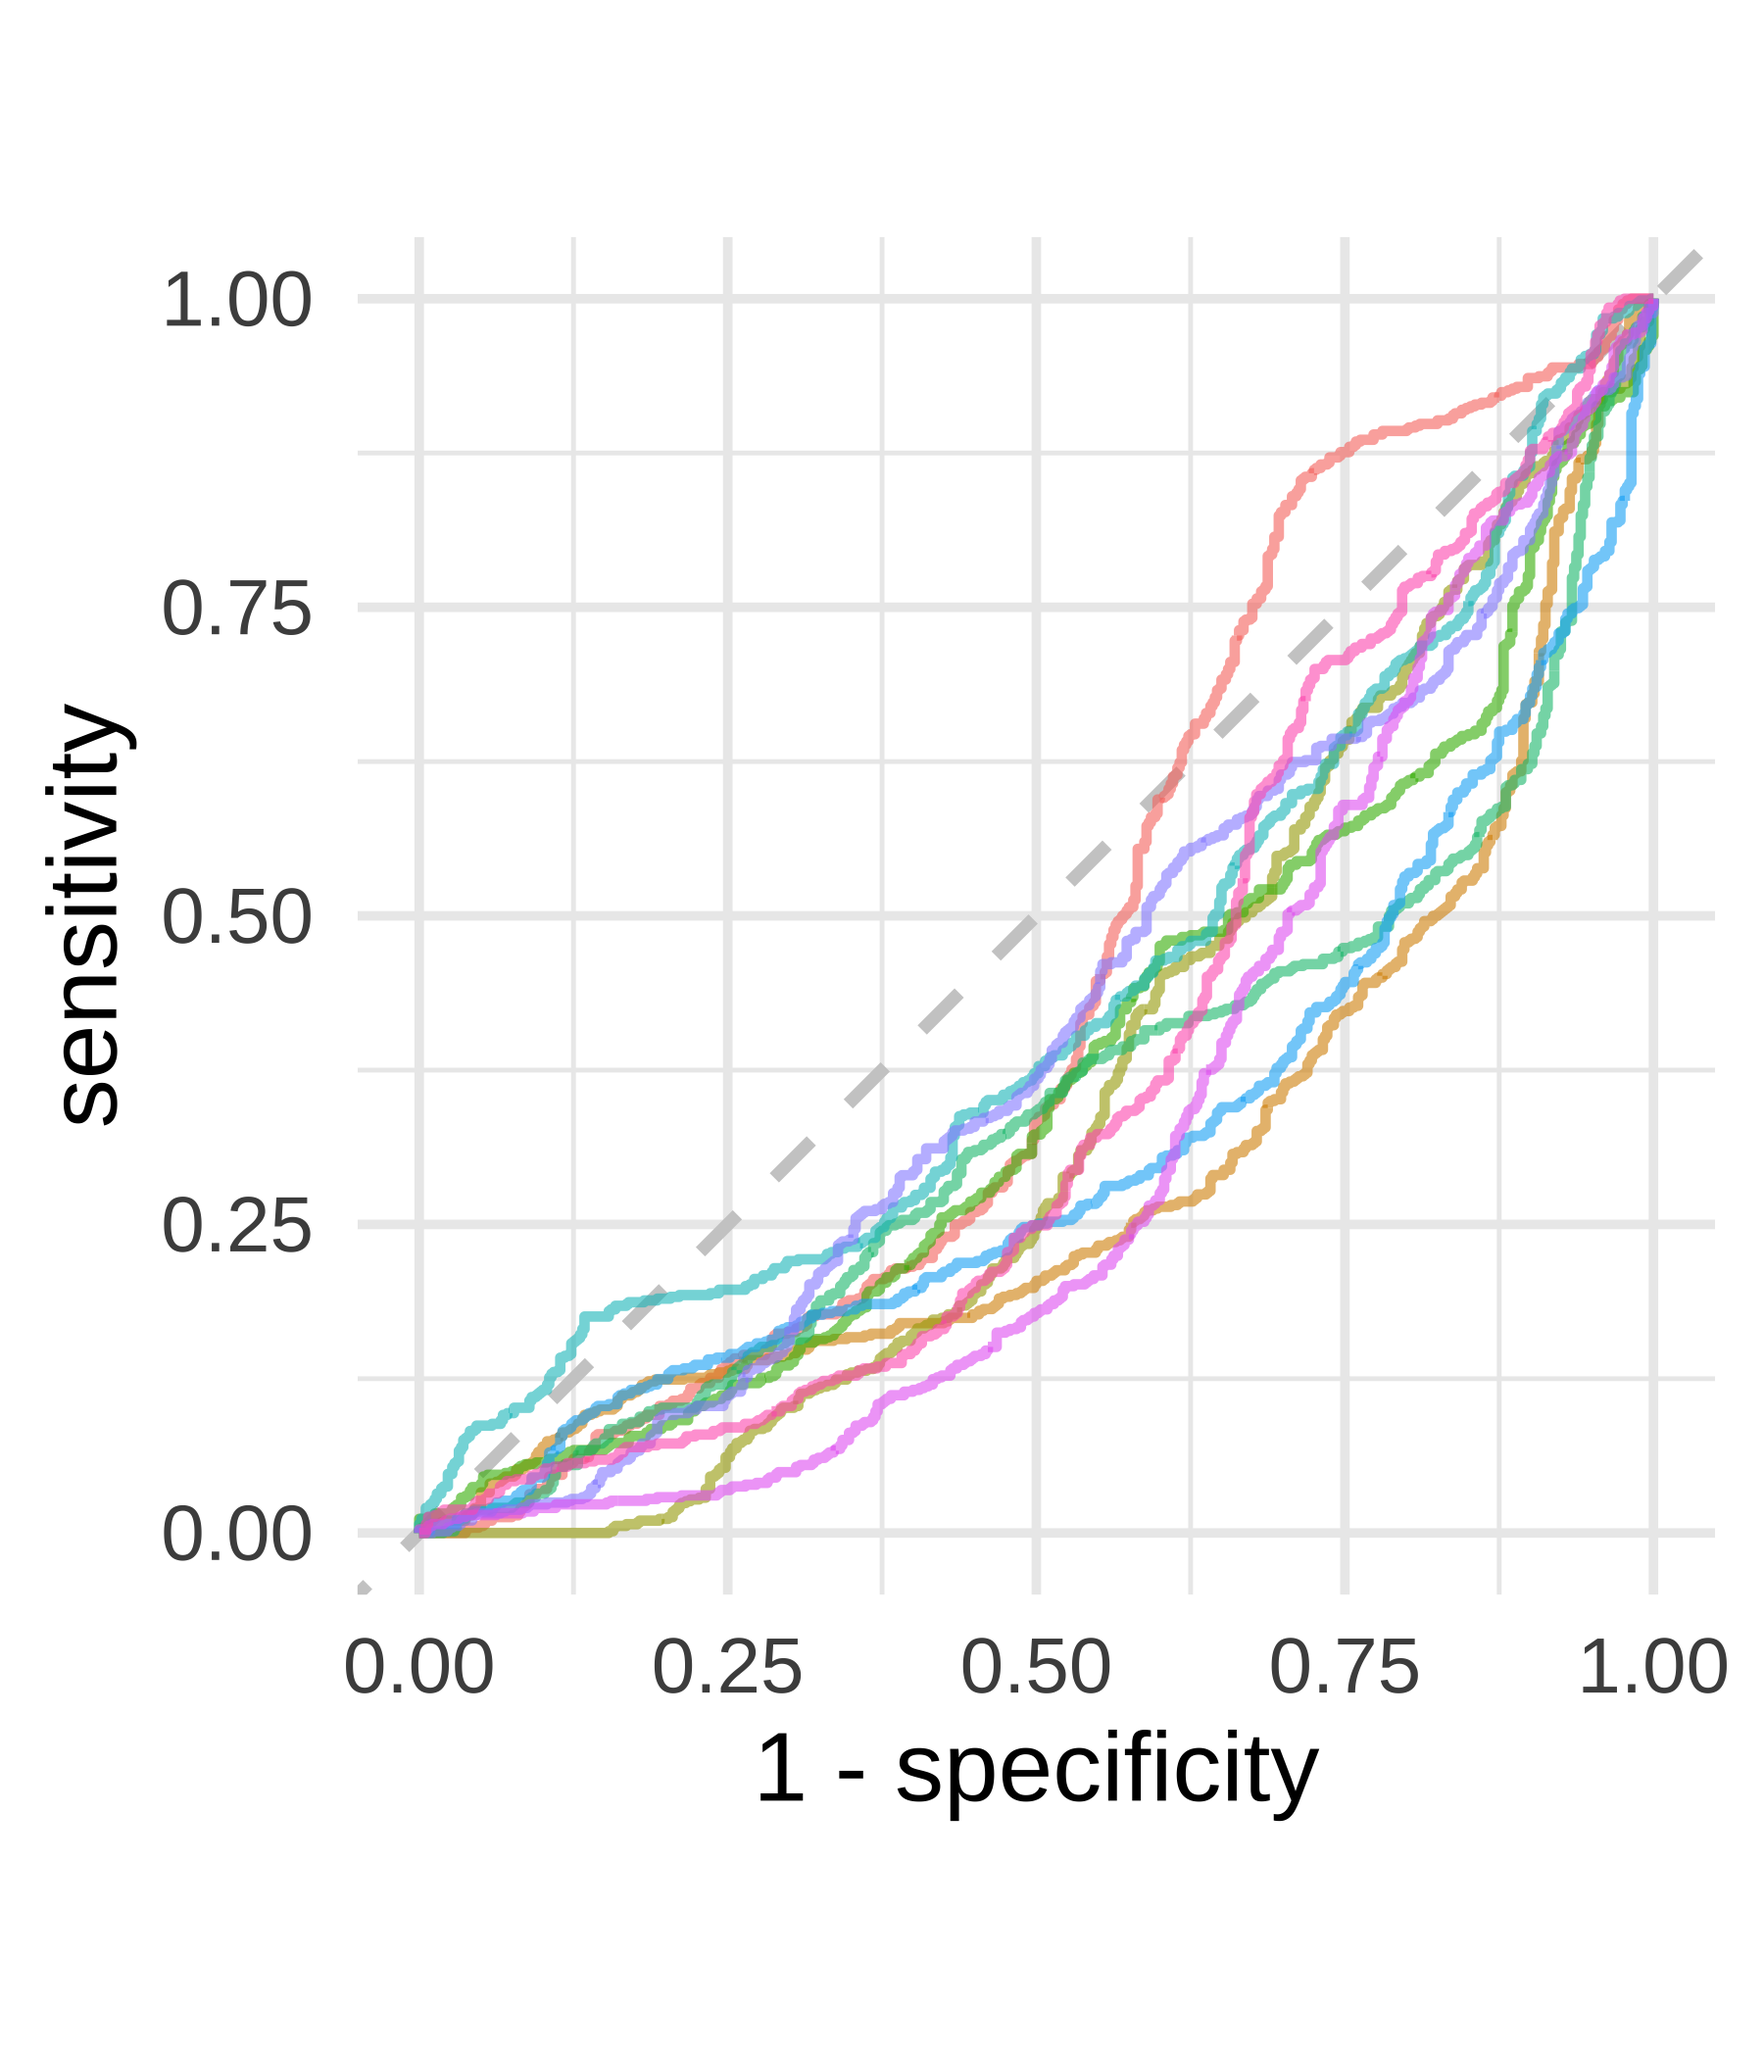
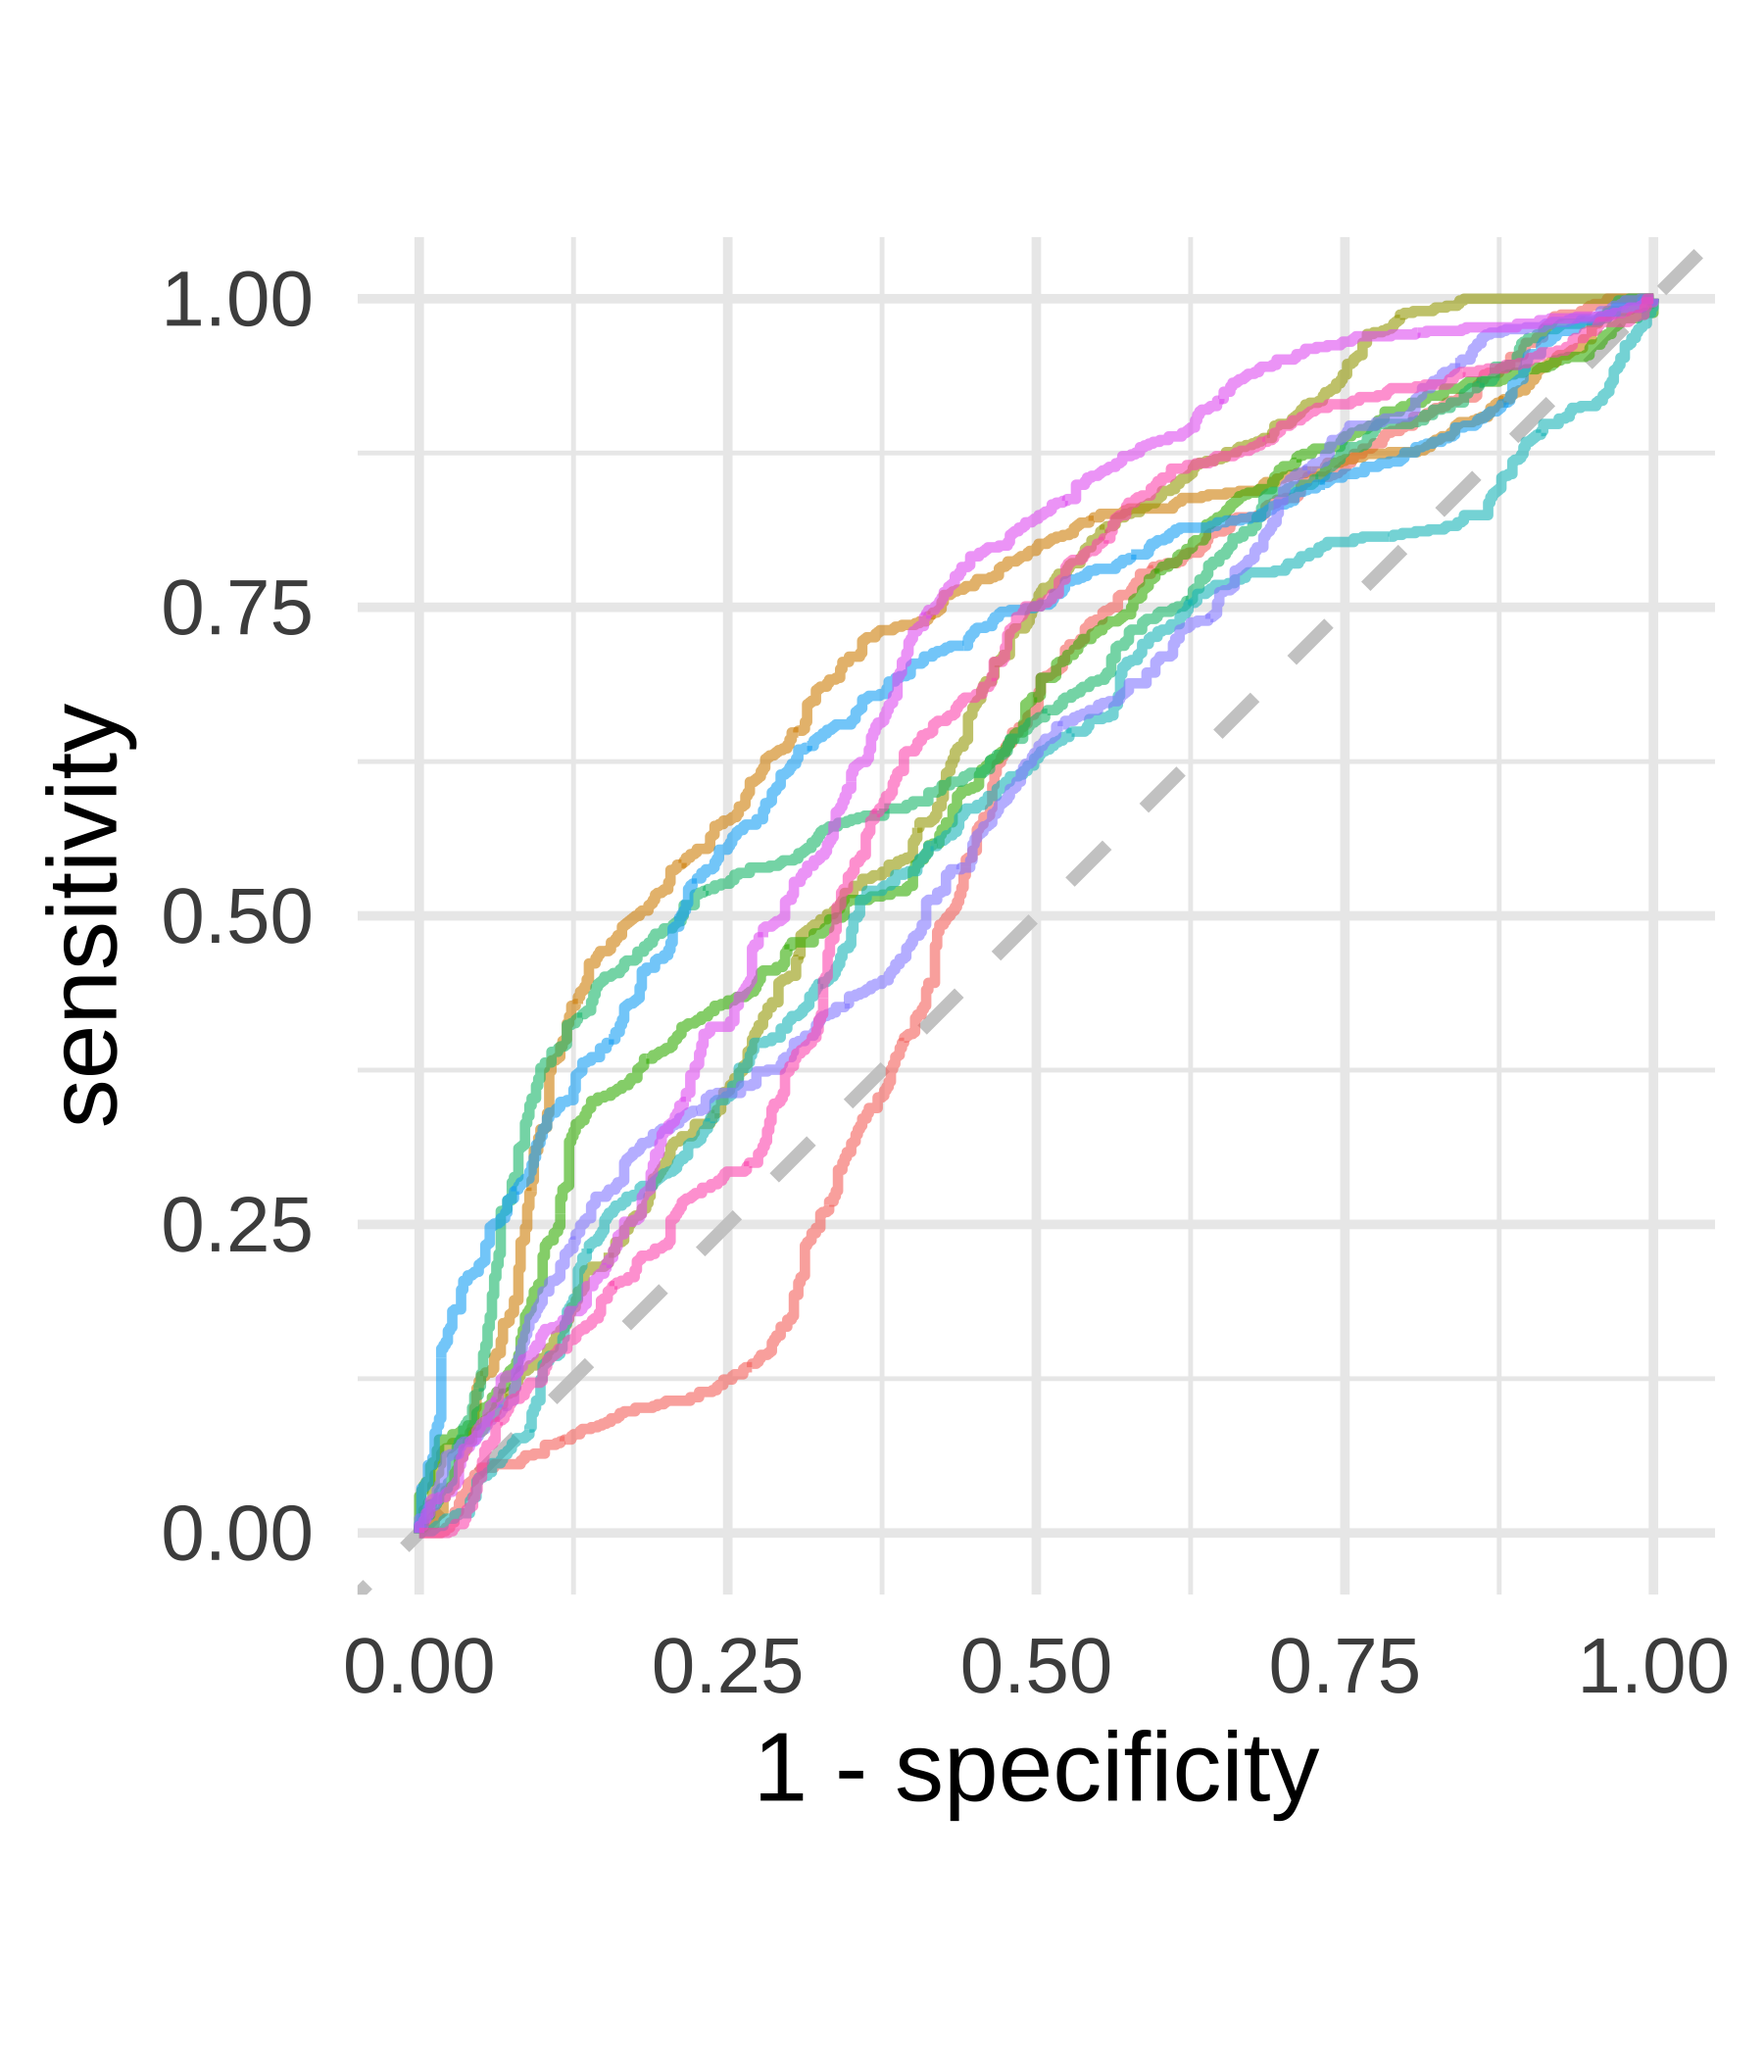
Fix ROC curve so it is not inverted

Changed region(s): [[0.2178, 0.1238, 0.9644, 0.7738]]

diff --git a/static/slides/tune-better-models/index.html b/static/slides/tune-better-models/index.html
@@ -225,7 +225,7 @@ class: inverse
 
 Fill in the blanks to return the accuracy and ROC AUC for this model using 10-fold cross-validation.
 
-<div class="countdown" id="timer_6359575c" style="right:0;bottom:0;" data-warnwhen="0">
+<div class="countdown" id="timer_635aaa6c" style="right:0;bottom:0;" data-warnwhen="0">
 <code class="countdown-time"><span class="countdown-digits minutes">02</span><span class="countdown-digits colon">:</span><span class="countdown-digits seconds">00</span></code>
 </div>
 
@@ -573,7 +573,7 @@ Fit your workflow with 10-fold cross-validation and compare the ROC AUC of the r
 
 *Hint: you'll need https://www.tidymodels.org/find/parsnip/*
 
-<div class="countdown" id="timer_635956e8" style="right:0;bottom:0;" data-warnwhen="0">
+<div class="countdown" id="timer_635aab42" style="right:0;bottom:0;" data-warnwhen="0">
 <code class="countdown-time"><span class="countdown-digits minutes">04</span><span class="countdown-digits colon">:</span><span class="countdown-digits seconds">00</span></code>
 </div>
 
@@ -699,7 +699,7 @@ class: inverse
 
 Challenge: Fit 3 more random forest models, each using 3, 5, and 8 variables at each split. Update your `rf_wf` with each new model. Which value maximizes the area under the ROC curve?
 
-<div class="countdown" id="timer_635956d4" style="right:0;bottom:0;" data-warnwhen="0">
+<div class="countdown" id="timer_635aabbd" style="right:0;bottom:0;" data-warnwhen="0">
 <code class="countdown-time"><span class="countdown-digits minutes">03</span><span class="countdown-digits colon">:</span><span class="countdown-digits seconds">00</span></code>
 </div>
 
@@ -993,7 +993,7 @@ Then use `tune_grid()` to find the best combination of hyper-parameters to maxim
 
 How does it compare to the average ROC AUC across folds from `fit_resamples()`?
 
-<div class="countdown" id="timer_63595632" style="right:0;bottom:0;" data-warnwhen="0">
+<div class="countdown" id="timer_635aa9df" style="right:0;bottom:0;" data-warnwhen="0">
 <code class="countdown-time"><span class="countdown-digits minutes">05</span><span class="countdown-digits colon">:</span><span class="countdown-digits seconds">00</span></code>
 </div>
 
@@ -1240,7 +1240,7 @@ Use `select_best()`, `finalize_workflow()`, and `last_fit()` to take the best co
 
 How does our actual test ROC AUC compare to our cross-validated estimate?
 
-<div class="countdown" id="timer_63595575" style="right:0;bottom:0;" data-warnwhen="0">
+<div class="countdown" id="timer_635aaa24" style="right:0;bottom:0;" data-warnwhen="0">
 <code class="countdown-time"><span class="countdown-digits minutes">05</span><span class="countdown-digits colon">:</span><span class="countdown-digits seconds">00</span></code>
 </div>
 
@@ -1307,7 +1307,7 @@ last_rf_fit %&gt;%
 ```r
 roc_values &lt;- last_rf_fit %&gt;%
   collect_predictions() %&gt;%
-  roc_curve(truth = test, estimate = .pred_Pass)
+  roc_curve(truth = test, estimate = .pred_Fail)
 autoplot(roc_values)
 ```
 
@@ -1473,7 +1473,7 @@ last_rf_fit %&gt;%
 
 last_rf_fit %&gt;%
   collect_predictions() %&gt;%
-  roc_curve(truth = test, estimate = .pred_Pass) %&gt;%
+  roc_curve(truth = test, estimate = .pred_Fail) %&gt;%
   autoplot()
 ```
 ]
